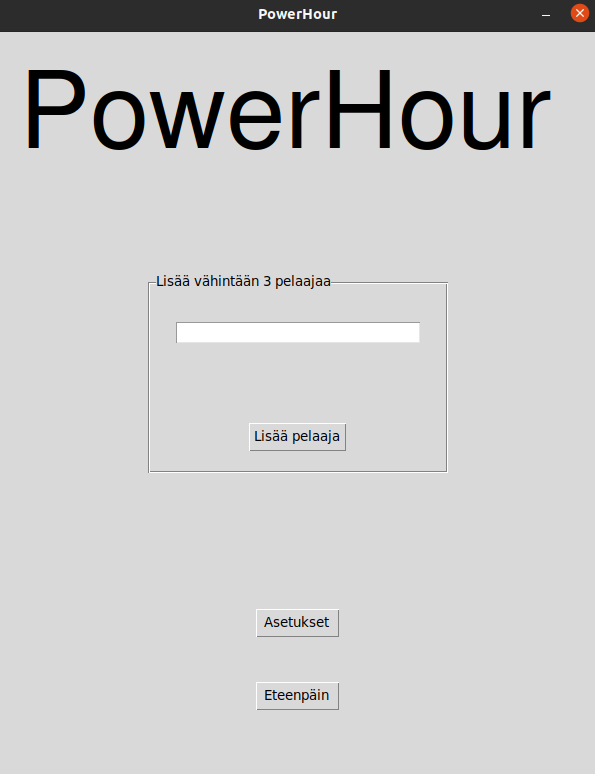
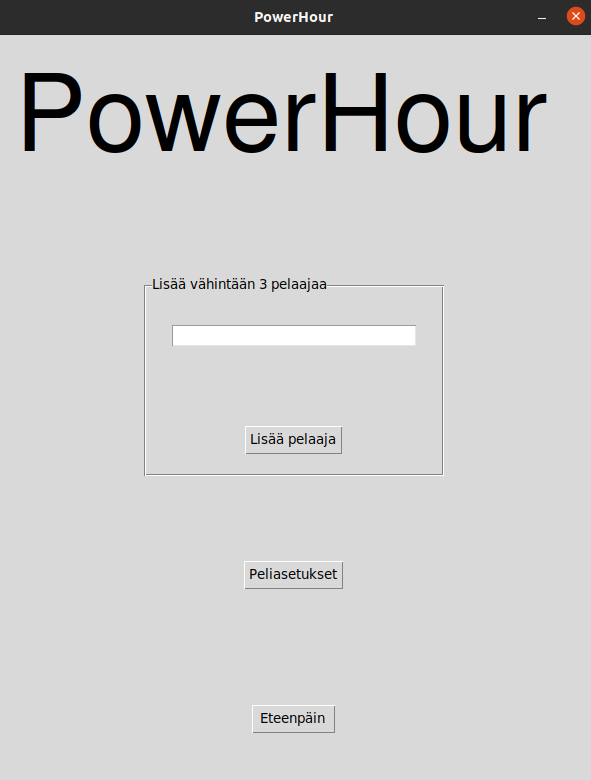
Käyttöohjeet päivitetty

diff --git a/OtPowerHour/dokumentaatio/kayttoohje.md b/OtPowerHour/dokumentaatio/kayttoohje.md
@@ -25,6 +25,8 @@ Kuten sovelluksen näkymä kertookin, tulee käyttäjän lisätä vähintään 3
 
 Käyttäjä voi kirjoittaa pelaajan nimen kirjoituskenttään ja sen jälkeen klikata nappulaa "Lisää pelaaja".
 
+Peliasetuksista käyttäjä voi lisätä omia tehtäviä/kirouksia, sekä säätää pelataanko normaalia 60 minuutin, vai lyhennettyä 30 minuutin peliä
+
 Tämän jälkeen peliin voi siirtyä painamalla "Eteenpäin" -nappulaa.
 
 ## Sovelluksen pelinäkymä
